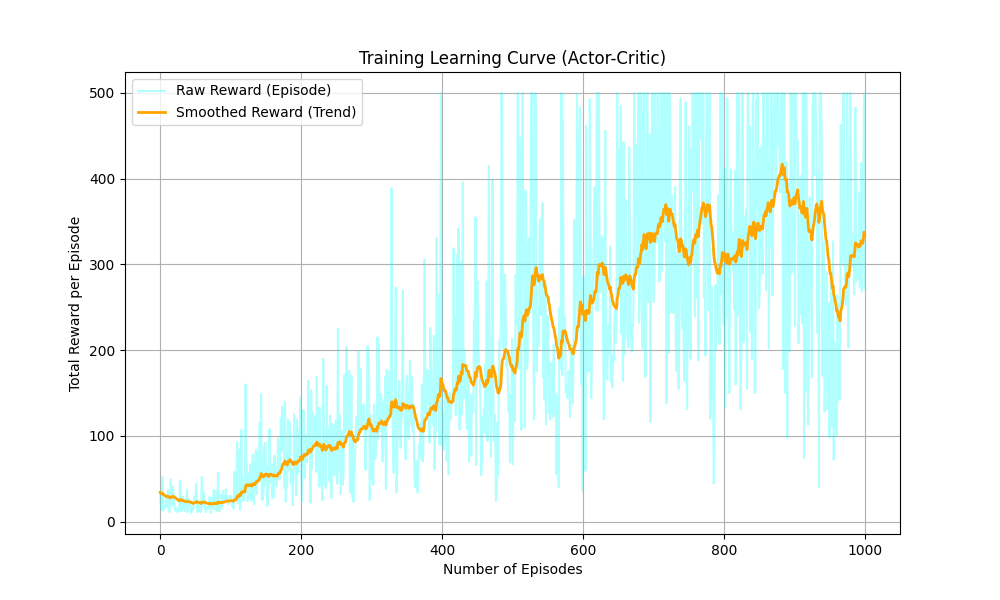
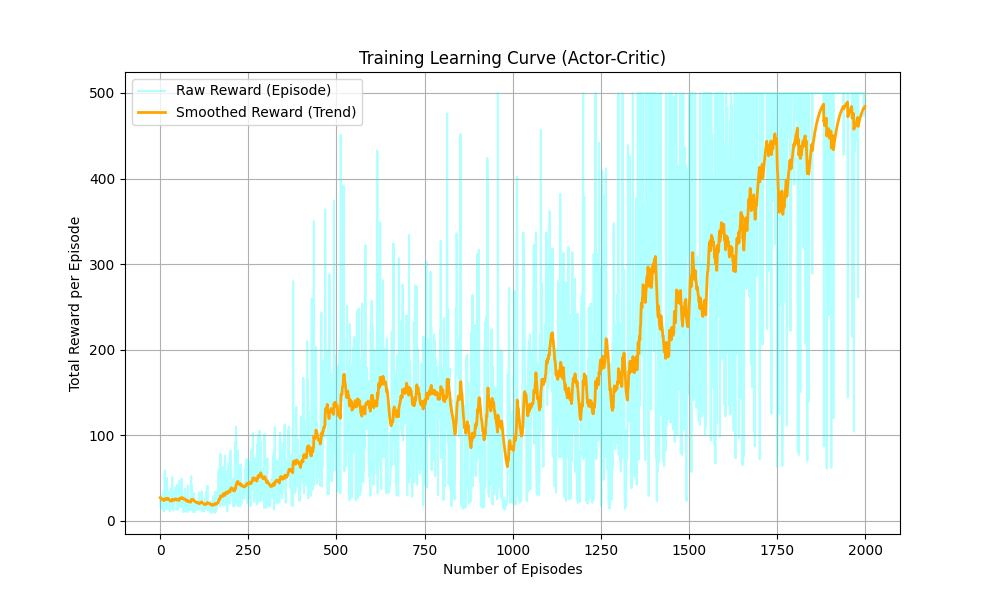
n_step method update

diff --git a/training.py b/training.py
@@ -15,7 +15,7 @@ class Training:
         smoothed_history = []
         running_reward = 0
 
-        for episode in range(n_episode):
+        for episode in range(1, n_episode + 1):
             done = False
             log_probs = []
             values = []
@@ -40,13 +40,27 @@ class Training:
 
                 total_rewards = total_rewards + reward
                 state = next_state
-                step = step + 1
+                step += 1
 
-            loss = self.agent.compute_loss(log_probs, values, rewards, masks, entropies)
-            self.agent.update_model(loss)
+                if (step % params.n_steps == 0 or done):
+                    if done:
+                        next_state_value = 0
+                    else:
+                        next_state_tensor = torch.tensor(next_state, dtype=torch.float32).to(params.device)
+                        _, next_value = self.agent.model(next_state_tensor)
+                        next_state_value = next_value.item()
 
-            if episode == 0:
-               running_reward = total_rewards
+                    loss = self.agent.compute_loss(log_probs, values, rewards, masks, entropies, next_state_value)
+                    self.agent.update_model(loss)
+            
+                    log_probs = []
+                    values = []
+                    rewards = []
+                    masks = []
+                    entropies = []
+
+            if episode == 1:
+                running_reward = total_rewards
             else:
                 running_reward = 0.05 * total_rewards + 0.95 * running_reward
 

diff --git a/agent.py b/agent.py
@@ -21,9 +21,9 @@ class A2CAgent:
 
         return action.item(), log_prob, state_value, entropy
 
-    def compute_loss(self, log_probs, state_values, rewards, masks, entropies):
+    def compute_loss(self, log_probs, state_values, rewards, masks, entropies, next_state_value):
         returns = []
-        R = 0
+        R = next_state_value
         
         for step in reversed(range(len(rewards))):
             R = rewards[step] + self.gamma * R * masks[step]
@@ -31,25 +31,20 @@ class A2CAgent:
             
         returns = torch.tensor(returns).to(params.device)
         log_probs = torch.stack(log_probs)
-        state_values = torch.stack(state_values).squeeze()
+        state_values = torch.stack(state_values).view(-1)
         entropy_loss = torch.stack(entropies).mean()
         
         advantage = returns - state_values
         
         actor_loss = -(log_probs * advantage.detach()).mean()
         critic_loss = torch.nn.functional.mse_loss(state_values, returns)
-        loss = actor_loss + 0.5 * critic_loss - params.beta * entropy_loss
+        loss = actor_loss + critic_loss - params.beta * entropy_loss
 
         return loss
 
     def update_model(self, loss):
         self.optimizer.zero_grad()
         loss.backward()
+        torch.nn.utils.clip_grad_norm_(self.model.parameters(), max_norm=0.5)
         self.optimizer.step()
         
-    def save_model(self, path):
-        torch.save(self.model.state_dict(), path)
-        
-    def load_model(self, path):
-        self.model.load_state_dict(torch.load(path))
-        self.model.eval()

diff --git a/params.py b/params.py
@@ -13,8 +13,9 @@ class Params:
         self.gamma = 0.99          # Discount factor (trọng số tương lai)
         self.beta = 0.001
         
-        self.training_num_episodes = 1000   # Tổng số màn chơi để train
-        self.max_steps = 500       # Số bước tối đa mỗi màn (CartPole v1 max là 500)
+        self.training_num_episodes = 2000   # Tổng số màn chơi để train
+        self.max_steps = 500      # Số bước tối đa mỗi màn (CartPole v1 max là 500)
+        self.n_steps = 50
         
         self.save_path = "cartpole_a2c_best.pth"
 
